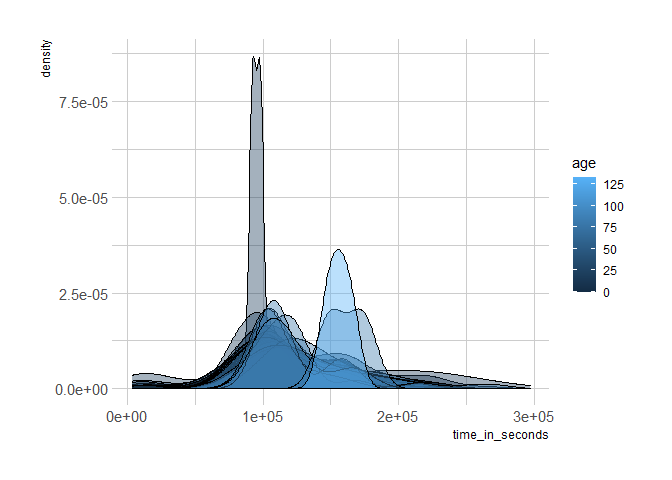
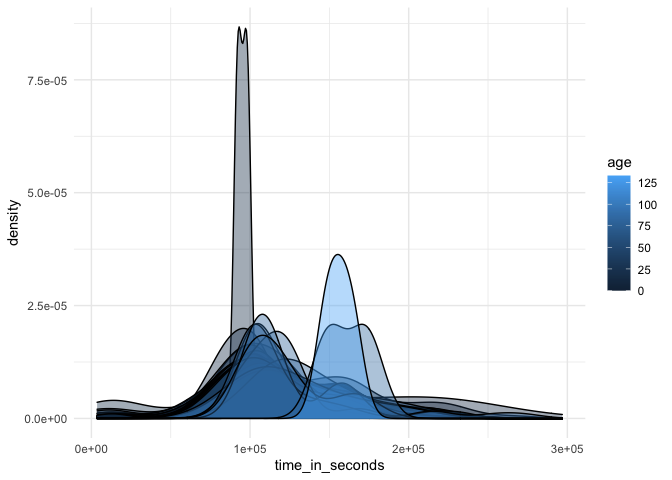
changes in Pablo and Alexandra blocks

diff --git a/2021-2/README.md b/2021-2/README.md
@@ -19,55 +19,6 @@ Estudiantes:
 
 ## Alexandra
 
-``` r
-#Holix4
-library(tidytuesdayR)
-library(report)
-```
-
-    ## Warning: package 'report' was built under R version 4.0.5
-
-``` r
-library(ggplot2)
-
-rankings <- tuesdata$ultra_rankings
-
-tuesdata$ultra_rankings
-```
-
-    ## # A tibble: 137,803 x 8
-    ##    race_year_id  rank runner     time     age gender nationality time_in_seconds
-    ##           <dbl> <dbl> <chr>      <chr>  <dbl> <chr>  <chr>                 <dbl>
-    ##  1        68140     1 VERHEUL J~ 26H 3~    30 M      GBR                   95725
-    ##  2        68140     2 MOULDING ~ 27H 0~    43 M      GBR                   97229
-    ##  3        68140     3 RICHARDSO~ 28H 4~    38 M      GBR                  103747
-    ##  4        68140     4 DYSON Fio~ 30H 5~    55 W      GBR                  111217
-    ##  5        68140     5 FRONTERAS~ 32H 4~    48 W      GBR                  117981
-    ##  6        68140     6 THOMAS Le~ 32H 4~    31 M      GBR                  118000
-    ##  7        68140     7 SHORT Deb~ 33H 3~    55 W      GBR                  120601
-    ##  8        68140     8 CROSSLEY ~ 33H 3~    40 W      GBR                  120803
-    ##  9        68140     9 BUTCHER K~ 34H 5~    47 M      GBR                  125656
-    ## 10        68140    10 Hendry Bi~ 34H 5~    29 M      GBR                  125979
-    ## # ... with 137,793 more rows
-
-``` r
-# Libraries
-library(ggplot2)
-library(dplyr)
-
-
-
-# Make the histogram
-rankings %>%
-  filter( age<90 ) %>%
-  ggplot( aes(x=age)) +
-    geom_density(fill="#69b3a2", color="#e9ecef", alpha=0.8)
-```
-
-![](README_files/figure-gfm/Alexandra-1.png)<!-- -->
-
-\`\`\`
-
 ## Amalia
 
 ## Andrés
@@ -101,60 +52,20 @@ p + geom_point(aes(colour = factor(gender),shape =gender)) +
 
 ``` r
 library(tidytuesdayR)
-library(report)
-```
 
-    ## Warning: package 'report' was built under R version 4.1.2
+# rankings <- tuesdata$ultra_rankings
 
-``` r
-rankings <- tuesdata$ultra_rankings
+# tuesdata$ultra_rankings
 
-tuesdata$ultra_rankings
-```
+  
 
-    ## # A tibble: 137,803 x 8
-    ##    race_year_id  rank runner     time     age gender nationality time_in_seconds
-    ##           <dbl> <dbl> <chr>      <chr>  <dbl> <chr>  <chr>                 <dbl>
-    ##  1        68140     1 VERHEUL J~ 26H 3~    30 M      GBR                   95725
-    ##  2        68140     2 MOULDING ~ 27H 0~    43 M      GBR                   97229
-    ##  3        68140     3 RICHARDSO~ 28H 4~    38 M      GBR                  103747
-    ##  4        68140     4 DYSON Fio~ 30H 5~    55 W      GBR                  111217
-    ##  5        68140     5 FRONTERAS~ 32H 4~    48 W      GBR                  117981
-    ##  6        68140     6 THOMAS Le~ 32H 4~    31 M      GBR                  118000
-    ##  7        68140     7 SHORT Deb~ 33H 3~    55 W      GBR                  120601
-    ##  8        68140     8 CROSSLEY ~ 33H 3~    40 W      GBR                  120803
-    ##  9        68140     9 BUTCHER K~ 34H 5~    47 M      GBR                  125656
-    ## 10        68140    10 Hendry Bi~ 34H 5~    29 M      GBR                  125979
-    ## # ... with 137,793 more rows
-
-``` r
 # Libraries..
 
-library(hrbrthemes)
-```
-
-    ## Warning: package 'hrbrthemes' was built under R version 4.1.2
-
-    ## NOTE: Either Arial Narrow or Roboto Condensed fonts are required to use these themes.
-
-    ##       Please use hrbrthemes::import_roboto_condensed() to install Roboto Condensed and
-
-    ##       if Arial Narrow is not on your system, please see https://bit.ly/arialnarrow
-
-``` r
-library(dplyr)
-library(tidyr)
-library(viridis)
-```
-
-    ## Warning: package 'viridis' was built under R version 4.1.2
-
-    ## Loading required package: viridisLite
-
-    ## Warning: package 'viridisLite' was built under R version 4.1.1
-
-``` r
-library(ggplot2)
+# library(hrbrthemes)
+# library(dplyr)
+# library(tidyr)
+# library(viridis)
+# library(ggplot2)
 
 # Make the histogram....
 
@@ -164,50 +75,9 @@ library(ggplot2)
 
  p2 <- ggplot(data=rankings, aes(x=time_in_seconds, group=age, fill=age)) +
     geom_density(adjust=1.5, alpha=0.4) +
-    theme_ipsum()
+    theme_minimal()
  p2
 ```
-
-    ## Warning: Removed 17791 rows containing non-finite values (stat_density).
-
-    ## Warning in grid.Call(C_stringMetric, as.graphicsAnnot(x$label)): font family not
-    ## found in Windows font database
-
-    ## Warning in grid.Call(C_stringMetric, as.graphicsAnnot(x$label)): font family not
-    ## found in Windows font database
-
-    ## Warning in grid.Call(C_textBounds, as.graphicsAnnot(x$label), x$x, x$y, : font
-    ## family not found in Windows font database
-
-    ## Warning in grid.Call(C_stringMetric, as.graphicsAnnot(x$label)): font family not
-    ## found in Windows font database
-
-    ## Warning in grid.Call(C_textBounds, as.graphicsAnnot(x$label), x$x, x$y, : font
-    ## family not found in Windows font database
-
-    ## Warning in grid.Call(C_textBounds, as.graphicsAnnot(x$label), x$x, x$y, : font
-    ## family not found in Windows font database
-
-    ## Warning in grid.Call(C_textBounds, as.graphicsAnnot(x$label), x$x, x$y, : font
-    ## family not found in Windows font database
-
-    ## Warning in grid.Call(C_textBounds, as.graphicsAnnot(x$label), x$x, x$y, : font
-    ## family not found in Windows font database
-
-    ## Warning in grid.Call(C_textBounds, as.graphicsAnnot(x$label), x$x, x$y, : font
-    ## family not found in Windows font database
-
-    ## Warning in grid.Call(C_textBounds, as.graphicsAnnot(x$label), x$x, x$y, : font
-    ## family not found in Windows font database
-
-    ## Warning in grid.Call.graphics(C_text, as.graphicsAnnot(x$label), x$x, x$y, :
-    ## font family not found in Windows font database
-
-    ## Warning in grid.Call(C_textBounds, as.graphicsAnnot(x$label), x$x, x$y, : font
-    ## family not found in Windows font database
-
-    ## Warning in grid.Call(C_textBounds, as.graphicsAnnot(x$label), x$x, x$y, : font
-    ## family not found in Windows font database
 
 ![](README_files/figure-gfm/Pablo-1.png)<!-- -->
 
@@ -223,13 +93,6 @@ Allaire, JJ, Yihui Xie, Jonathan McPherson, Javier Luraschi, Kevin
 Ushey, Aron Atkins, Hadley Wickham, Joe Cheng, Winston Chang, and
 Richard Iannone. 2021. *Rmarkdown: Dynamic Documents for r*.
 <https://CRAN.R-project.org/package=rmarkdown>.
-
-</div>
-
-<div id="ref-R-viridis" class="csl-entry">
-
-Garnier, Simon. 2021. *Viridis: Colorblind-Friendly Color Maps for r*.
-<https://CRAN.R-project.org/package=viridis>.
 
 </div>
 
@@ -257,13 +120,6 @@ Statistical Models*. <https://easystats.github.io/report/>.
 
 </div>
 
-<div id="ref-R-hrbrthemes" class="csl-entry">
-
-Rudis, Bob. 2020. *Hrbrthemes: Additional Themes, Theme Components and
-Utilities for Ggplot2*. <http://github.com/hrbrmstr/hrbrthemes>.
-
-</div>
-
 <div id="ref-R-renv" class="csl-entry">
 
 Ushey, Kevin. 2021. *Renv: Project Environments*.
@@ -271,27 +127,10 @@ Ushey, Kevin. 2021. *Renv: Project Environments*.
 
 </div>
 
-<div id="ref-ggplot22016" class="csl-entry">
-
-Wickham, Hadley. 2016. *Ggplot2: Elegant Graphics for Data Analysis*.
-Springer-Verlag New York. <https://ggplot2.tidyverse.org>.
-
-</div>
-
 <div id="ref-R-tidyverse" class="csl-entry">
 
-———. 2021. *Tidyverse: Easily Install and Load the Tidyverse*.
-<div id="ref-R-tidyr" class="csl-entry">
-
-———. 2021a. *Tidyr: Tidy Messy Data*.
-<https://CRAN.R-project.org/package=tidyr>.
-
-</div>
-
-<div id="ref-R-tidyverse" class="csl-entry">
-
-———. 2021b. *Tidyverse: Easily Install and Load the Tidyverse*.
-<https://CRAN.R-project.org/package=tidyverse>.
+Wickham, Hadley. 2021. *Tidyverse: Easily Install and Load the
+Tidyverse*. <https://CRAN.R-project.org/package=tidyverse>.
 
 </div>
 
@@ -301,23 +140,6 @@ Wickham, Hadley, Mara Averick, Jennifer Bryan, Winston Chang, Lucy
 D’Agostino McGowan, Romain François, Garrett Grolemund, et al. 2019.
 “Welcome to the <span class="nocase">tidyverse</span>.” *Journal of Open
 Source Software* 4 (43): 1686. <https://doi.org/10.21105/joss.01686>.
-
-</div>
-
-<div id="ref-R-ggplot2" class="csl-entry">
-
-Wickham, Hadley, Winston Chang, Lionel Henry, Thomas Lin Pedersen,
-Kohske Takahashi, Claus Wilke, Kara Woo, Hiroaki Yutani, and Dewey
-Dunnington. 2021. *Ggplot2: Create Elegant Data Visualisations Using the
-Grammar of Graphics*. <https://CRAN.R-project.org/package=ggplot2>.
-
-</div>
-
-<div id="ref-R-dplyr" class="csl-entry">
-
-Wickham, Hadley, Romain François, Lionel Henry, and Kirill Müller. 2021.
-*Dplyr: A Grammar of Data Manipulation*.
-<https://CRAN.R-project.org/package=dplyr>.
 
 </div>
 
